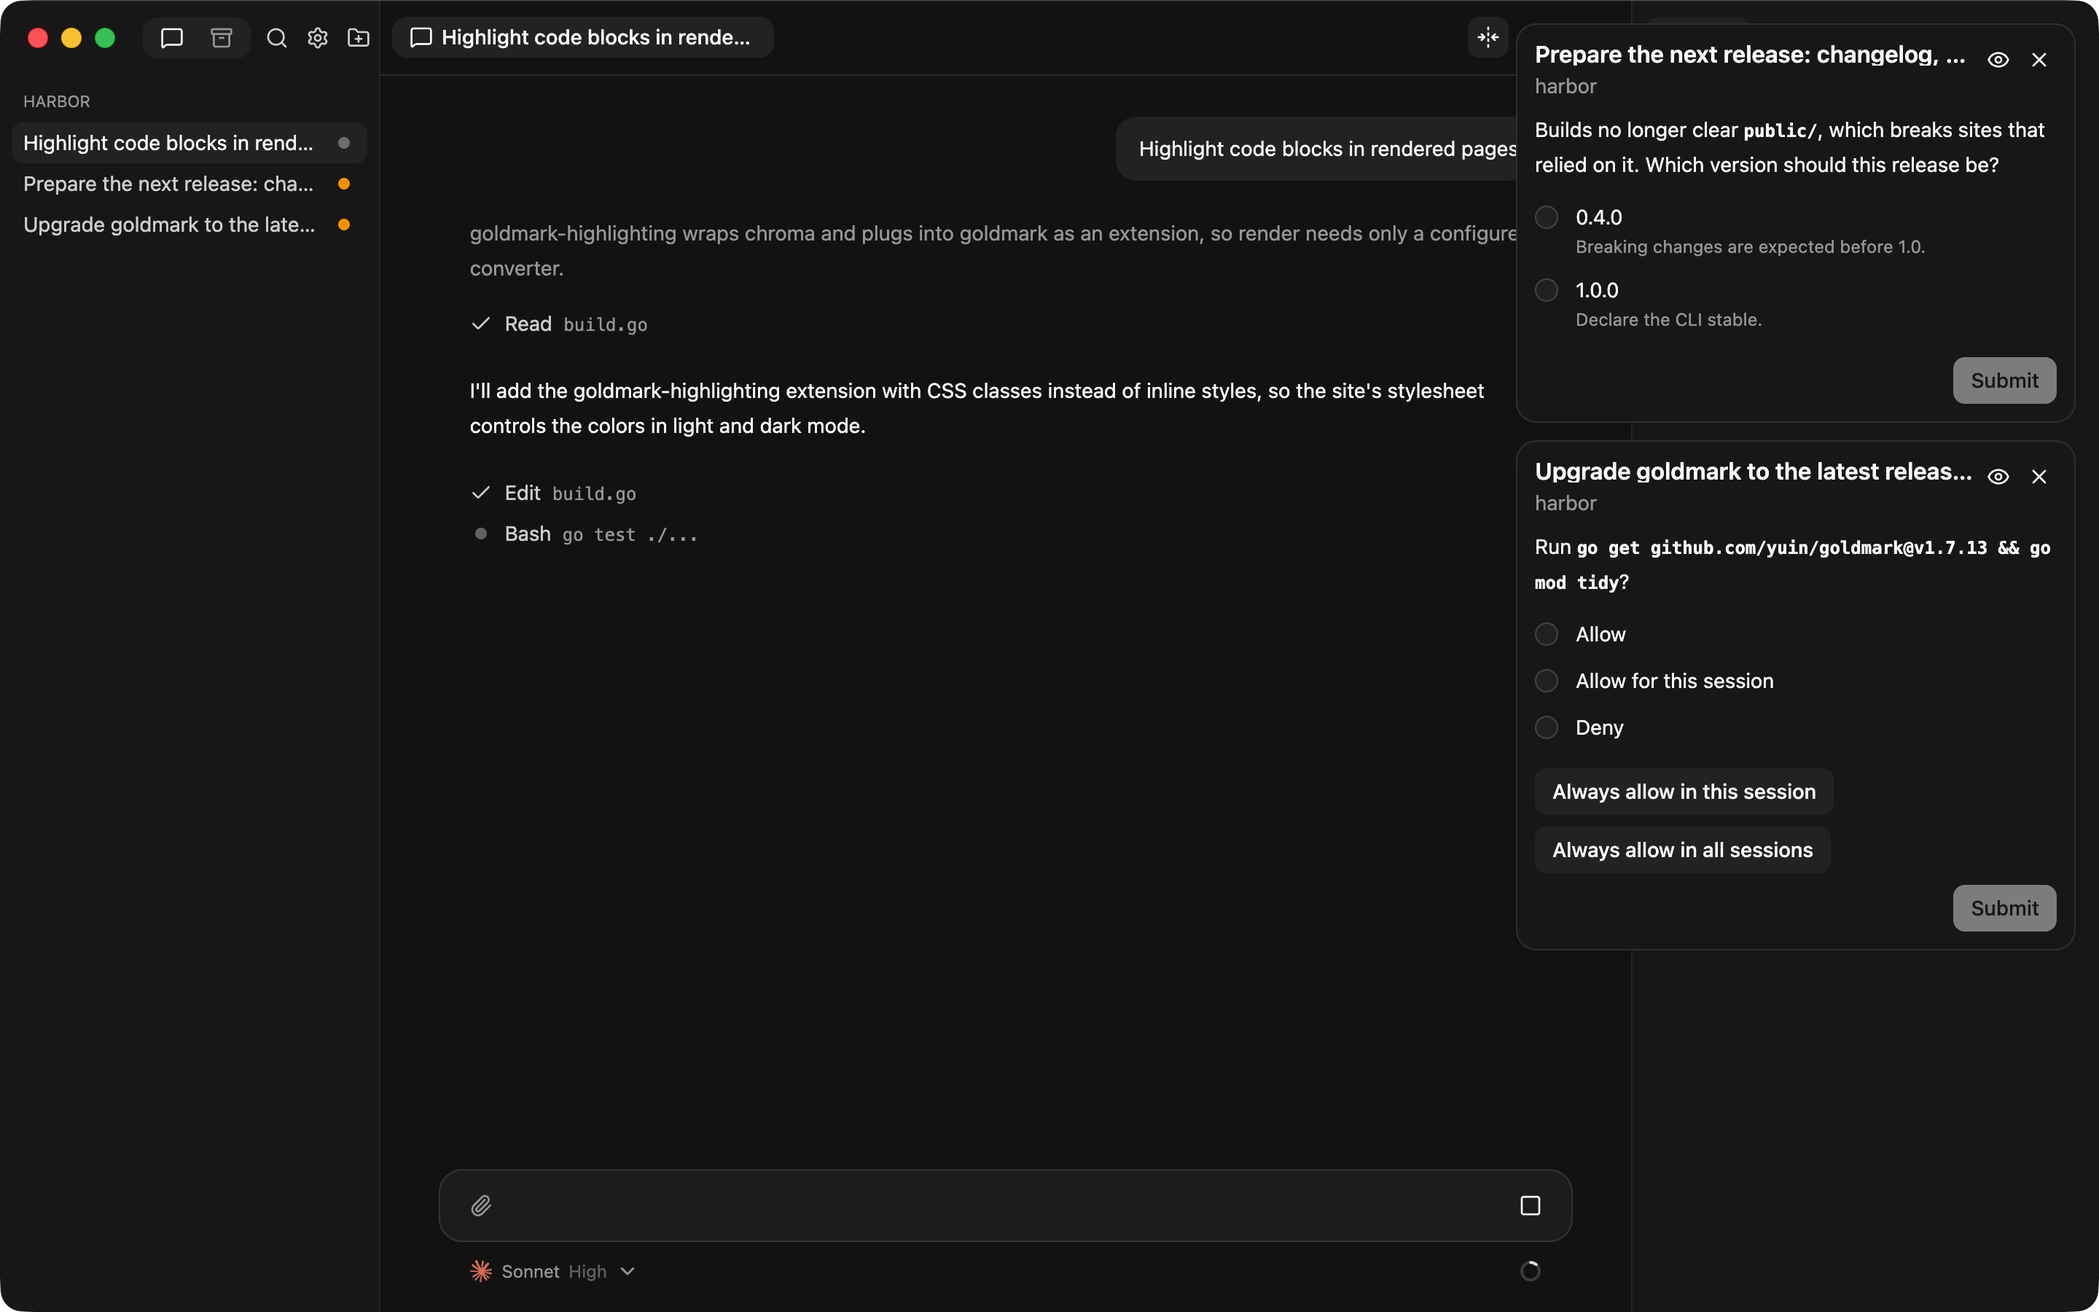
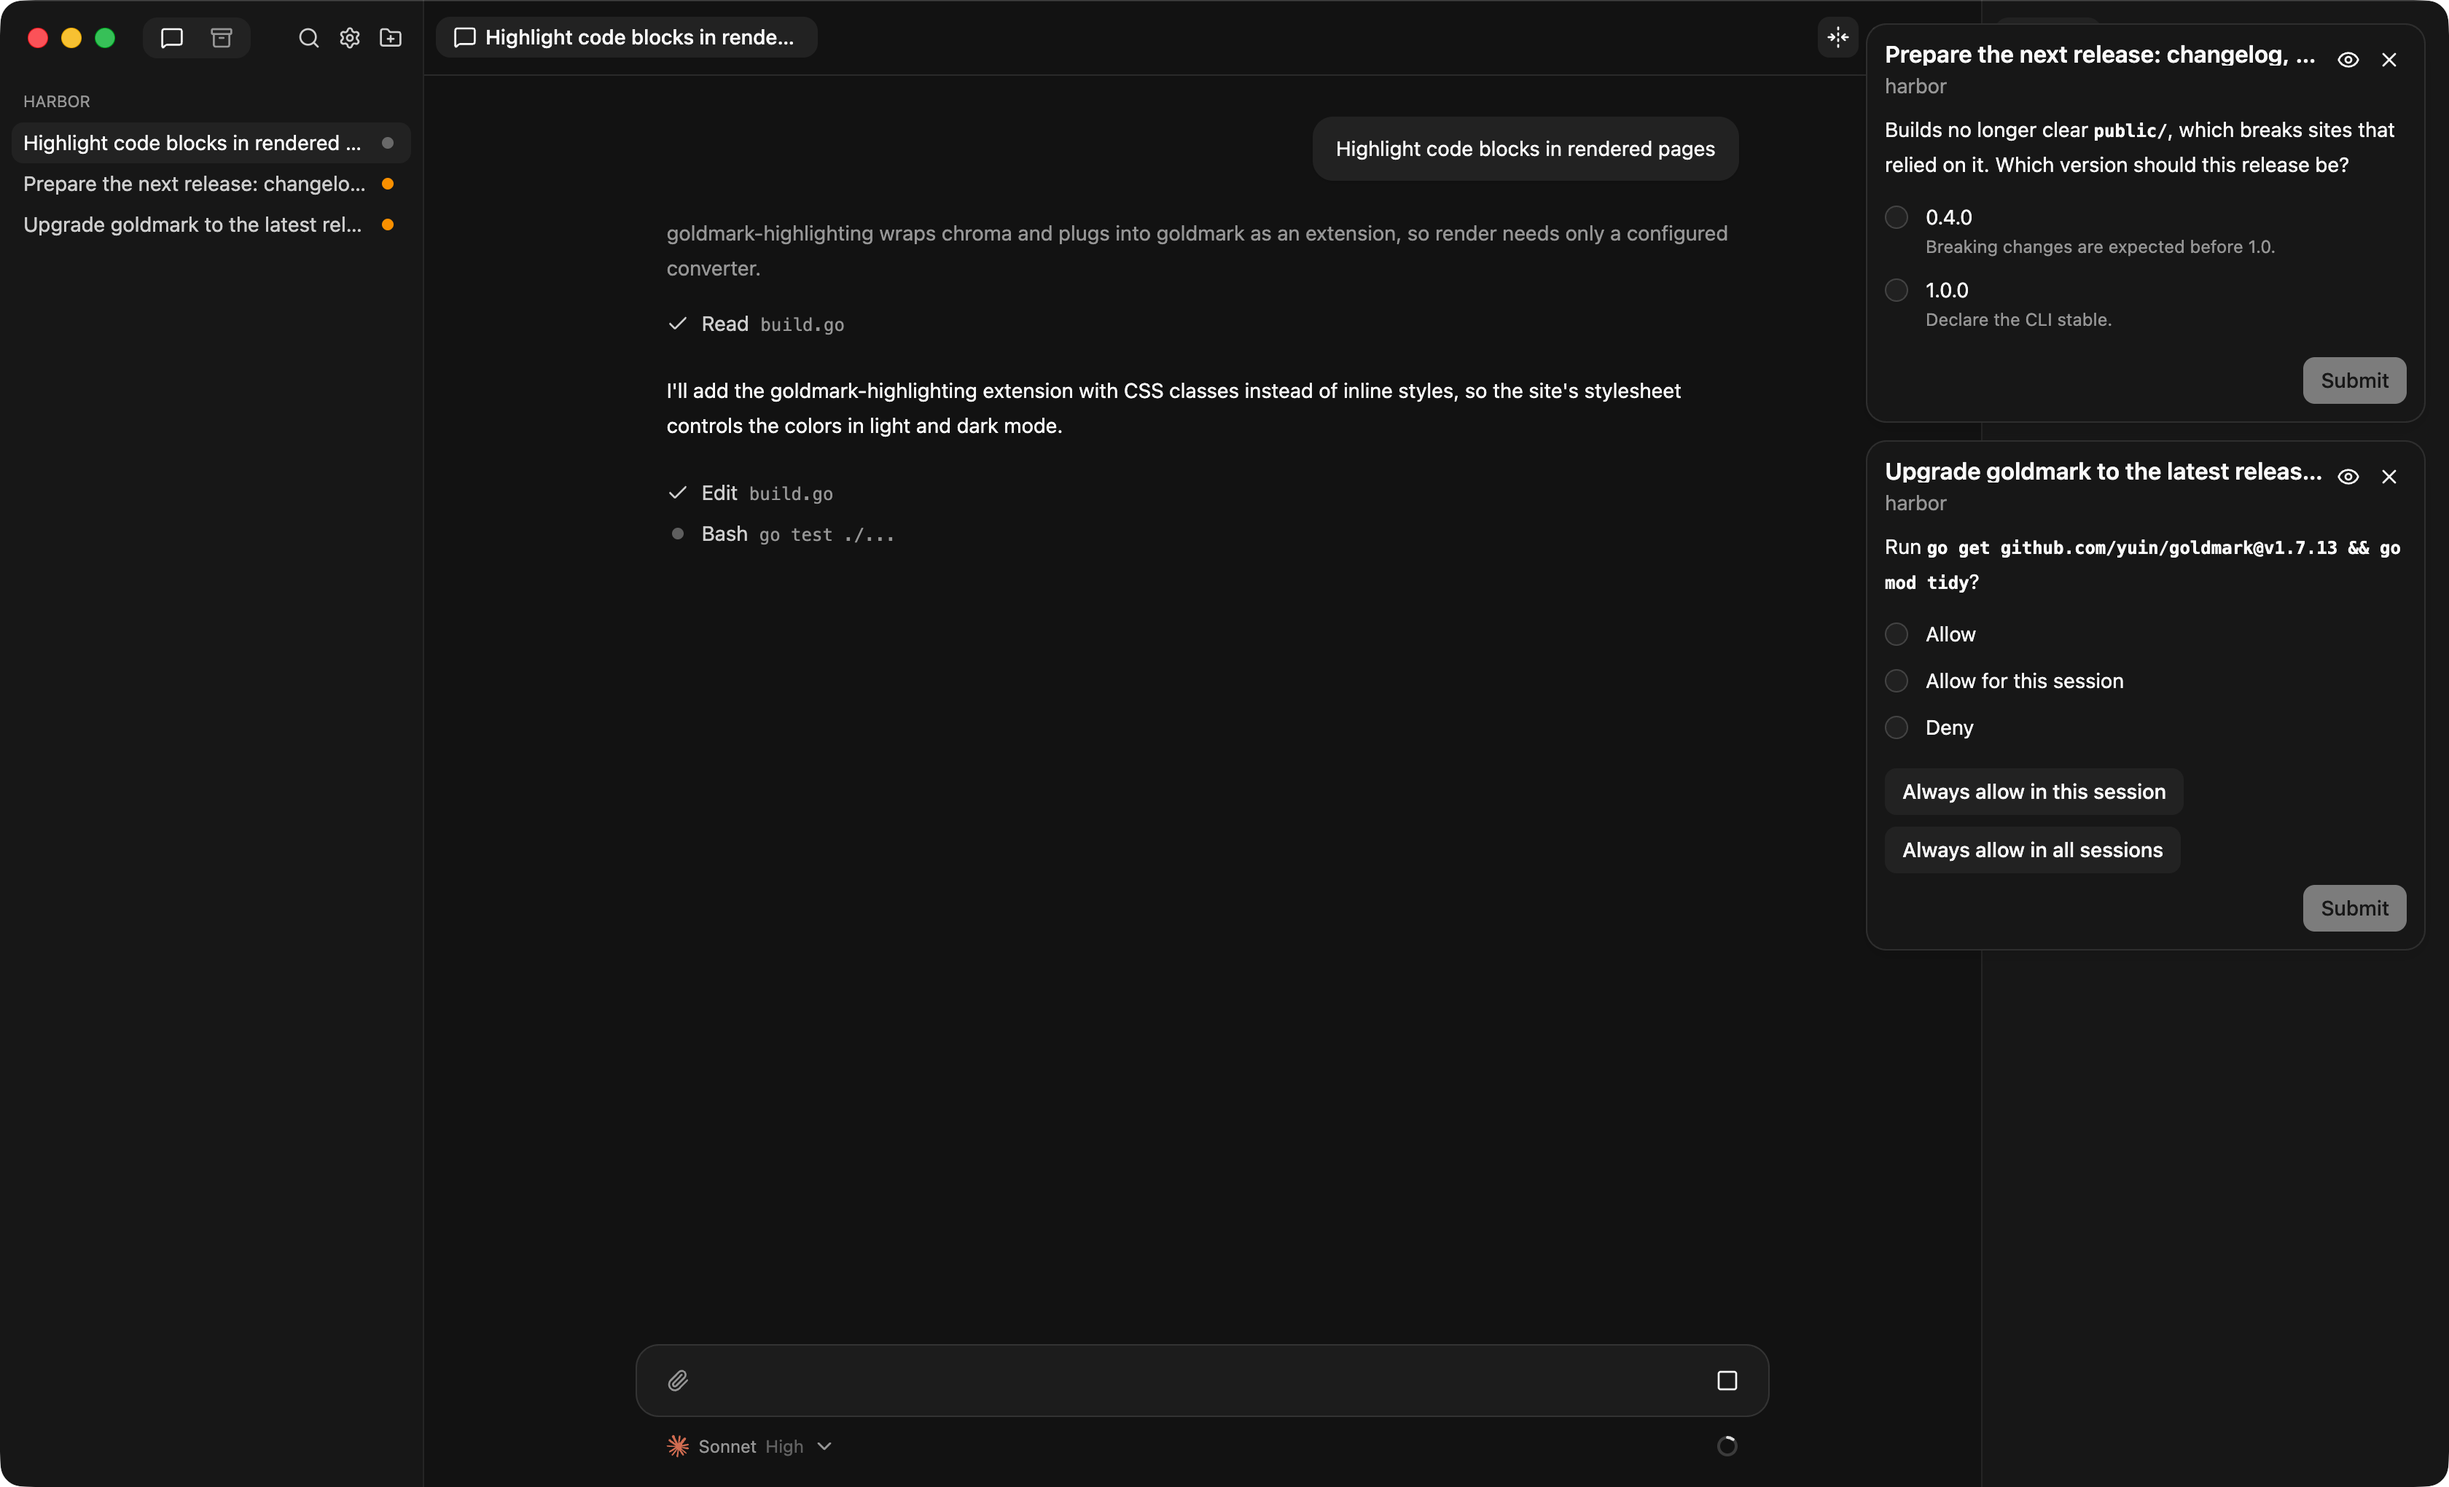
Widen the default sidebar, enlarge screenshots, and add the offer scene
The sidebar opens 30 points wider. Scenes capture a 1680 by 1020 window,
which fits a 1080-point display, and the driver fails a capture of any other
size. Scene turns can offer tasks through create_session, and the new offer
scene shows the card that asks whether a task runs in a new session or here.

diff --git a/scripts/screenshots/main.js b/scripts/screenshots/main.js
@@ -37,7 +37,7 @@ const profiles = [
 // The page's own default workbench, which a scene's workbench overrides.
 const defaultWorkbench = {
   sidebar: true, rightPanel: true, panel: false, rightTab: 'files', wrap: false, fixedWidth: true,
-  sizes: {sidebar: 260, rightPanel: 320, panel: 240}, sidebarTab: 'sessions',
+  sizes: {sidebar: 290, rightPanel: 320, panel: 240}, sidebarTab: 'sessions',
   collapsedWorkspaces: {}, collapsedSessions: {}, sidebarScroll: {sessions: 0, archived: 0},
 };
 
@@ -337,7 +337,10 @@ async function capture(scene, ids, backend, window, name) {
     await run('screencapture', ['-x', '-o', `-l${windowNumber}`, file]);
     // The screen holds the window's last painted frame, which lags the page
     // when the window was covered; the image must show what the page drew.
-    if (difference(nativeImage.createFromPath(file), await contents.capturePage()) > 8) {
+    const image = nativeImage.createFromPath(file);
+    const {width: shotWidth, height: shotHeight} = image.getSize();
+    if (shotWidth !== 2 * width || shotHeight !== 2 * height) throw new Error(`${name}-${theme}.png is ${shotWidth}×${shotHeight}, not twice ${width}×${height}`);
+    if (difference(image, await contents.capturePage()) > 8) {
       throw new Error(`${name}-${theme}.png does not show the page; keep the window in front while it is captured`);
     }
   };

diff --git a/internal/ui/web/state.ts b/internal/ui/web/state.ts
@@ -60,7 +60,7 @@ export const initialState = (selected: string, visible: boolean): State => ({
   confirmation: null,
   workbench: {
     sidebar: true, rightPanel: true, panel: false, rightTab: 'files', wrap: false, fixedWidth: true,
-    sizes: {sidebar: 260, rightPanel: 320, panel: 240}, sidebarTab: 'sessions',
+    sizes: {sidebar: 290, rightPanel: 320, panel: 240}, sidebarTab: 'sessions',
     collapsedWorkspaces: {}, collapsedSessions: {}, sidebarScroll: {sessions: 0, archived: 0},
   },
   session: null,

diff --git a/internal/ui/web/app/view-storage.test.ts b/internal/ui/web/app/view-storage.test.ts
@@ -128,6 +128,6 @@ test('invalid saved layouts report their failure and retain defaults', () => {
   const store = fresh();
   startViewStorage(store);
   expect(store.get().sessionViews).toEqual({});
-  expect(store.get().workbench.sizes.sidebar).toBe(260);
+  expect(store.get().workbench.sizes.sidebar).toBe(290);
   expect(store.get().errors[0].message).toContain('Could not restore view state');
 });

diff --git a/plugins/scripted/main.go b/plugins/scripted/main.go
@@ -3,8 +3,9 @@
 // it in place of the native harnesses. It reads the scene file named by
 // HYPERCUBE_SCENE and answers each input with the turn whose prompt the input
 // contains: a child's brief arrives wrapped in its parent's message. A turn
-// may start child sessions through Hypercube's create_session tool, and a
-// parent ends the turn that delivers its children's reports at once.
+// may start child sessions and offer tasks through Hypercube's create_session
+// tool, and a parent ends the turn that delivers its children's reports at
+// once.
 package main
 
 import (
@@ -52,6 +53,8 @@ type turn struct {
 	End      string         `json:"end"`
 	Usage    *harness.Usage `json:"usage"`
 	Children []session      `json:"children"`
+	// Offers are the titles of tasks the turn offers the user as new sessions.
+	Offers []string `json:"offers"`
 }
 
 func main() {
@@ -153,15 +156,15 @@ func match(turns []turn, text string) (turn, bool) {
 	return turn{}, false
 }
 
-// play sends a turn: working, its children, its items, and its end. The last
+// play sends a turn: working, its children and offers, its items, and its end. The last
 // item arrives with the end, so its arrival means the turn has played. A
 // child that cannot start ends the turn with the reason.
 func play(t turn, start harness.StartArgs, event func(harness.Event) error) error {
 	if err := event(harness.Event{State: harness.Working}); err != nil {
 		return err
 	}
-	if len(t.Children) > 0 {
-		if err := createChildren(start, t.Children); err != nil {
+	if len(t.Children) > 0 || len(t.Offers) > 0 {
+		if err := createSessions(start, t); err != nil {
 			return event(harness.Event{State: harness.Idle, Items: []harness.Item{{ID: "children", Kind: harness.KindError, Text: err.Error(), Done: true}}})
 		}
 	}
@@ -184,8 +187,9 @@ func play(t turn, start harness.StartArgs, event func(harness.Event) error) erro
 	return event(end)
 }
 
-// createChildren starts children through the session's own Hypercube tools.
-func createChildren(start harness.StartArgs, children []session) error {
+// createSessions starts a turn's children and makes its offers through the
+// session's own Hypercube tools.
+func createSessions(start harness.StartArgs, t turn) error {
 	ctx := context.Background()
 	cmd := exec.Command(start.Hypercube, "mcp")
 	cmd.Env = os.Environ()
@@ -198,15 +202,20 @@ func createChildren(start harness.StartArgs, children []session) error {
 		return err
 	}
 	defer conn.Close()
-	for _, c := range children {
-		result, err := conn.CallTool(ctx, &mcp.CallToolParams{Name: "create_session", Arguments: map[string]any{
-			"title": c.Title, "name": c.Name, "profile": c.Profile, "dir": c.Dir, "initiation": "user_asked", "message": c.Turns[0].Prompt,
-		}})
+	var calls []map[string]any
+	for _, c := range t.Children {
+		calls = append(calls, map[string]any{"title": c.Title, "name": c.Name, "profile": c.Profile, "dir": c.Dir, "initiation": "user_asked", "message": c.Turns[0].Prompt})
+	}
+	for _, title := range t.Offers {
+		calls = append(calls, map[string]any{"title": title, "initiation": "offer"})
+	}
+	for _, args := range calls {
+		result, err := conn.CallTool(ctx, &mcp.CallToolParams{Name: "create_session", Arguments: args})
 		if err != nil {
 			return err
 		}
 		if result.IsError {
-			return fmt.Errorf("creating %s: %v", c.Name, result.Content)
+			return fmt.Errorf("creating %s: %v", args["title"], result.Content)
 		}
 	}
 	return nil

diff --git a/agents/development.md b/agents/development.md
@@ -44,7 +44,7 @@ each scene in `docs/screenshots/`. A scene file lists workspaces, each a copy
 of a fixture repository in `docs/screenshots/repos/` with an optional patch of
 uncommitted changes, and their sessions: each turn's prompt, the transcript
 items in the plugin protocol's JSON, how the turn ends (`idle`, `working`, or
-`ask`), and the children it starts. A session's `view` is the page's saved
+`ask`), the children it starts, and the tasks it offers as new sessions. A session's `view` is the page's saved
 tabs and splits, `select` picks the shown session, and `size` is the window
 in points. [scripts/screenshots/main.js](../scripts/screenshots/main.js) plays
 each scene through a real backend with

diff --git a/README.md b/README.md
@@ -41,6 +41,11 @@ children.
 
 ### Teams and communication
 
+<picture>
+  <source media="(prefers-color-scheme: dark)" srcset="docs/images/offer-dark.png">
+  <img alt="An agent offers a new task, with a card asking whether it runs in a new session or the current one" src="docs/images/offer-light.png">
+</picture>
+
 - **Delegation to child sessions.** Agents can assign work to child sessions with different harnesses, models, and efforts.
 - **Task placement.** You can choose whether a new task belongs in the current session or a separate session.
 - **Suggested work.** Agents can propose additional tasks for you to review before they start.
